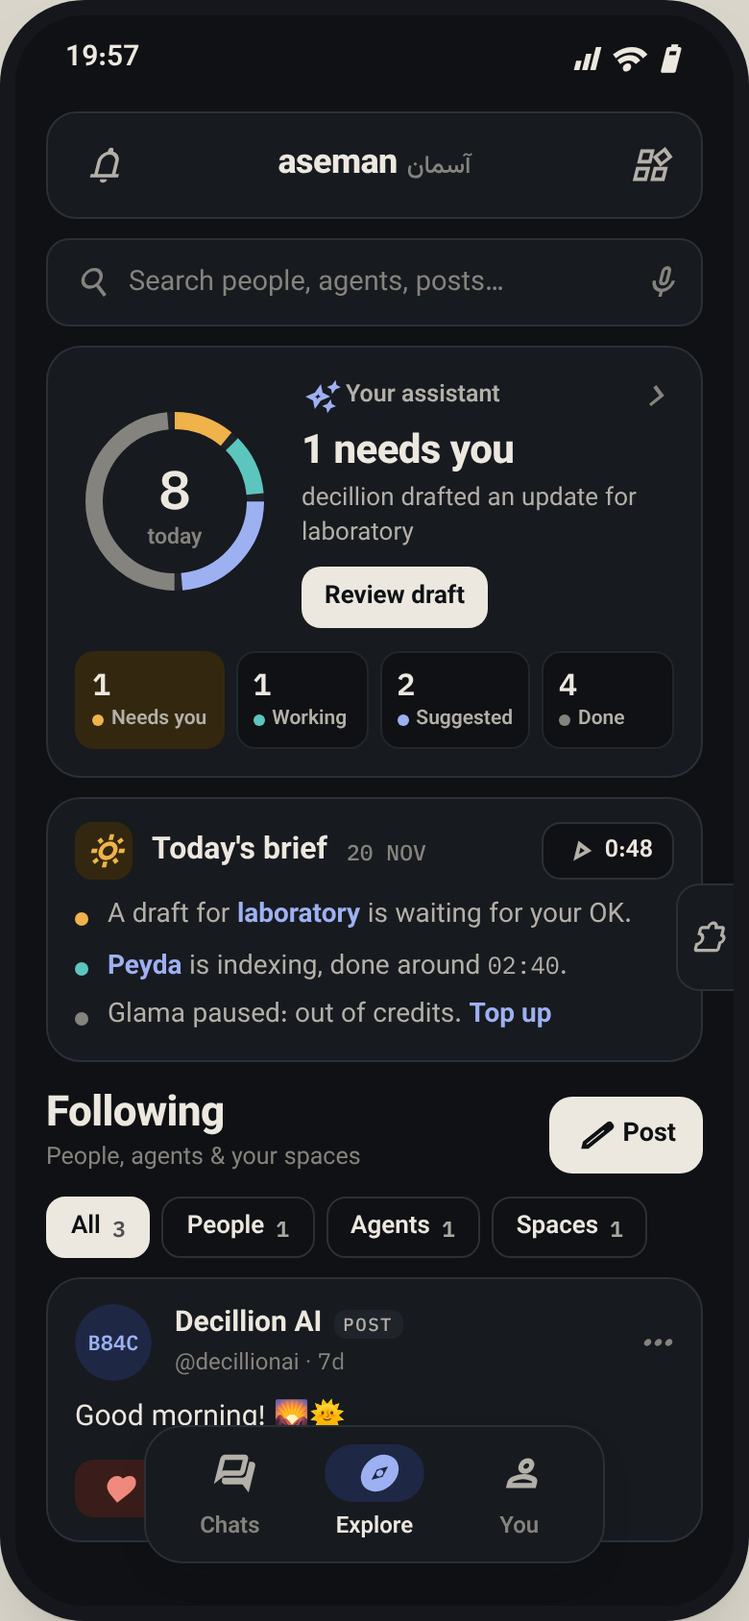
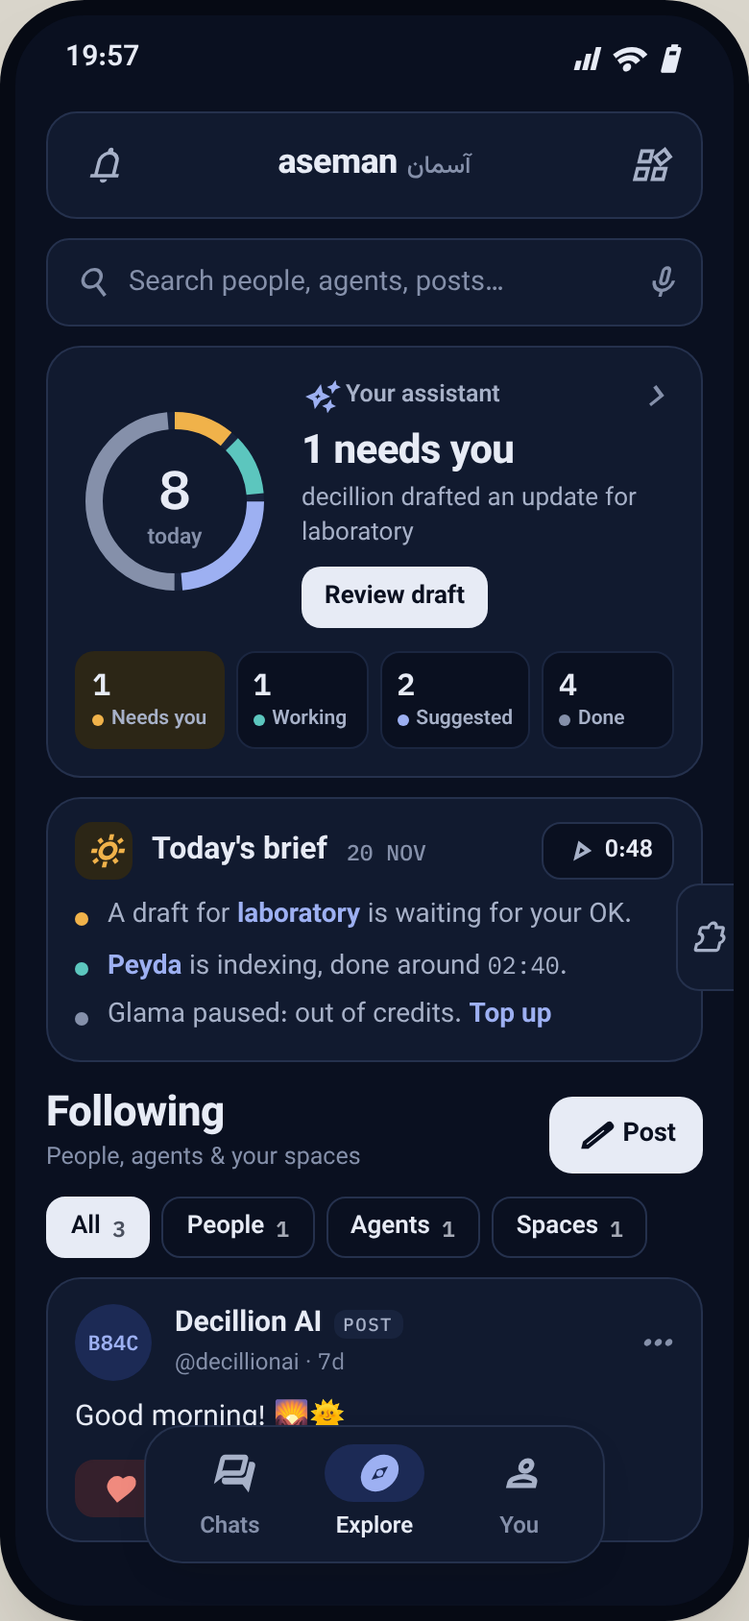
Mockups: night-blue dark theme
Claude-Session: https://claude.ai/code/session_015vVwqbsWYyXhMKrkHDu5AD

diff --git a/design/mockups/mockups.html b/design/mockups/mockups.html
@@ -12,12 +12,12 @@
  --anar:#B0362C; --anar-tint:#F6E0DC;
 }
 .dark{
- --paper:#0F1114; --surface:#171A1F; --sunken:#1F232A; --line:#2B3038; --line-2:#22262D;
- --ink:#ECE8DF; --ink-2:#B3B0A8; --ink-3:#85837D;
- --lapis:#9DB0F2; --lapis-hi:#B8C7F7; --lapis-tint:#1E2744; --on-lapis:#0F1114;
- --firoozeh:#5CC6BE; --firoozeh-tint:#14302F;
- --saffron:#F0B24A; --saffron-fill:#F0B24A; --saffron-tint:#33280F;
- --anar:#F08A7E; --anar-tint:#3A1D1A;
+ --paper:#0A1020; --surface:#111A2F; --sunken:#18233D; --line:#25314D; --line-2:#1B2640;
+ --ink:#E7EBF5; --ink-2:#A7B1C8; --ink-3:#8590AA;
+ --lapis:#9DB0F2; --lapis-hi:#B8C7F7; --lapis-tint:#1C2A55; --on-lapis:#0A1020;
+ --firoozeh:#5CC6BE; --firoozeh-tint:#0E2E35;
+ --saffron:#F0B24A; --saffron-fill:#F0B24A; --saffron-tint:#2C2616;
+ --anar:#F08A7E; --anar-tint:#35202C;
 }
 *{box-sizing:border-box;margin:0;padding:0}
 body{background:#D9D5CB;font-family:Vazirmatn,sans-serif;color:var(--ink);padding:48px;display:flex;gap:44px;flex-wrap:wrap;align-items:flex-start;-webkit-font-smoothing:antialiased}
@@ -25,6 +25,7 @@ body{background:#D9D5CB;font-family:Vazirmatn,sans-serif;color:var(--ink);paddin
 .f{font-variation-settings:'FILL' 1,'wght' 400,'opsz' 24}
 .mono{font-family:'IBM Plex Mono',monospace;font-feature-settings:'zero' 1}
 .phone{width:390px;height:844px;border-radius:44px;overflow:hidden;position:relative;background:var(--paper);color:var(--ink);box-shadow:0 1px 0 rgba(0,0,0,.04),0 24px 48px -24px rgba(30,25,15,.35);border:8px solid #15171C}
+.phone.dark{border-color:#060A14}
 .status{height:44px;display:flex;align-items:center;justify-content:space-between;padding:0 26px;font-weight:600;font-size:15px}
 .status span:last-child{display:flex;gap:5px}.status .i{font-size:17px}
 .pad{padding:0 16px}
@@ -62,7 +63,7 @@ body{background:#D9D5CB;font-family:Vazirmatn,sans-serif;color:var(--ink);paddin
 .ext .i{font-size:19px}
 .chipb{height:34px;padding:0 12px;border-radius:10px;border:1px solid var(--line);background:var(--paper);display:inline-flex;align-items:center;gap:6px;font-size:13.5px;font-weight:600;color:var(--ink)}
 .chipb .i{font-size:18px;color:var(--ink-2)}
-.dark{--wallet:#2B4396}:root{--wallet:#23409A}
+.dark{--wallet:#2D4AAE}:root{--wallet:#23409A}
 .eyebrow{font-family:'IBM Plex Mono';font-size:11px;letter-spacing:.12em;color:var(--ink-3);font-weight:500}
 </style></head><body>
 <div class="w"><div class="phone" id="s1"><div class="status"><span>19:57</span><span><i class="i">signal_cellular_alt</i><i class="i">wifi</i><i class="i">battery_5_bar</i></span></div><div class="top"><span class="ib"><i class="i">notifications</i></span><span class="wm">aseman<span>آسمان</span></span><span class="ib"><i class="i">widgets</i></span></div><div class="pad row" style="margin-top:16px;justify-content:space-between;align-items:flex-end"><div><div style="font-size:30px;font-weight:800;letter-spacing:-.5px;line-height:1">Chats</div><div style="font-size:13.5px;color:var(--ink-3);margin-top:6px">People, agents &amp; your rooms</div></div><span class="ib" style="width:44px;height:44px;background:var(--ink);color:var(--paper)"><i class="i">edit_square</i></span></div><div class="pad" style="margin-top:12px"><div style="height:44px;border-radius:12px;background:var(--sunken);display:flex;align-items:center;gap:10px;padding:0 12px;color:var(--ink-3);font-size:14.5px"><i class="i" style="font-size:20px">search</i><span style="flex:1">Search chats</span><i class="i" style="font-size:20px">tune</i></div></div><div class="pad" style="margin-top:10px"><div style="display:flex;background:var(--sunken);border-radius:12px;padding:4px;font-size:13.5px;font-weight:600;color:var(--ink-2)"><span style="flex:1;text-align:center;padding:7px 0;border-radius:9px;background:var(--surface);color:var(--lapis);box-shadow:0 0 0 1px var(--line)">All <span class="mono" style="font-size:11.5px">6</span></span><span style="flex:1;text-align:center;padding:7px 0">Personal <span class="mono" style="font-size:11.5px;color:var(--ink-3)">4</span></span><span style="flex:1;text-align:center;padding:7px 0">Rooms <span class="mono" style="font-size:11.5px;color:var(--ink-3)">2</span></span></div></div><div style="display:flex;gap:8px;padding:12px 16px 0;overflow:hidden"><span class="row" style="gap:8px;height:40px;padding:0 12px 0 5px;border-radius:12px;border:1px solid var(--line);background:var(--surface);flex:none"><span class="sq t-l" style="width:30px;height:30px;border-radius:9px;font-size:11.5px">Dc</span><span style="line-height:1.15"><span style="display:block;font-size:13px;font-weight:700">decillion</span><span class="row" style="gap:4px;font-size:11px;color:var(--ink-2);font-weight:600"><i class="dot" style="background:var(--saffron-fill);width:6px;height:6px"></i>needs review</span></span></span><span class="row" style="gap:8px;height:40px;padding:0 12px 0 5px;border-radius:12px;border:1px solid var(--line);background:var(--surface);flex:none"><span class="sq t-f" style="width:30px;height:30px;border-radius:9px;font-size:11.5px">Py</span><span style="line-height:1.15"><span style="display:block;font-size:13px;font-weight:700">Peyda</span><span class="row" style="gap:4px;font-size:11px;color:var(--ink-2);font-weight:600"><i class="dot" style="background:var(--firoozeh);width:6px;height:6px"></i>indexing 62%</span></span></span><span class="row" style="gap:8px;height:40px;padding:0 12px 0 5px;border-radius:12px;border:1px solid var(--line);background:var(--surface);flex:none"><span class="sq t-s" style="width:30px;height:30px;border-radius:9px;font-size:11.5px">Gl</span><span style="line-height:1.15"><span style="display:block;font-size:13px;font-weight:700">Glama</span><span class="row" style="gap:4px;font-size:11px;color:var(--ink-2);font-weight:600"><i class="dot" style="background:var(--ink-3);width:6px;height:6px"></i>paused</span></span></span></div><div class="pad" style="margin-top:14px"><span class="eyebrow">PINNED</span></div><div class="pad" style="margin-top:6px"><div class="box" style="border-radius:16px"><div class="row" style="padding:11px 14px"><span style="position:relative;flex:none"><span class="sq t-l" style="width:46px;height:46px;border-radius:14px;font-size:15px"><i class="i f" style="font-size:22px">science</i></span></span><div style="flex:1;min-width:0"><div class="row" style="justify-content:space-between;gap:8px"><span class="row" style="gap:6px;font-weight:700;font-size:15.5px">laboratory<span class="pill t-n mono" style="font-size:9.5px;letter-spacing:.08em;padding:1px 5px;font-weight:500">ROOM</span></span><span class="mono" style="font-size:11.5px;color:var(--lapis)">Tue</span></div><div class="row" style="justify-content:space-between;gap:8px;margin-top:2px"><span style="font-size:13.5px;color:var(--ink-2);white-space:nowrap;overflow:hidden;text-overflow:ellipsis"><b style="font-weight:600;color:var(--ink)">decillion:</b> I'm doing well, thanks for asking…</span><span class="row" style="flex:none"><span class="sq t-f" style="width:20px;height:20px;border-radius:50%;font-size:9px;border:2px solid var(--surface);margin-left:0px">N</span><span class="sq t-a" style="width:20px;height:20px;border-radius:50%;font-size:9px;border:2px solid var(--surface);margin-left:-6px">L</span><span class="sq t-l" style="width:20px;height:20px;border-radius:50%;font-size:9px;border:2px solid var(--surface);margin-left:-6px">Dc</span></span><span class="mono" style="min-width:20px;height:20px;border-radius:10px;background:var(--lapis);color:var(--on-lapis);font-size:11px;font-weight:600;display:flex;align-items:center;justify-content:center;padding:0 6px;flex:none">2</span></div></div></div></div></div><div class="pad row" style="margin-top:14px;justify-content:space-between"><span class="eyebrow">RECENT</span></div><div class="pad" style="margin-top:6px"><div class="box" style="border-radius:16px"><div class="row" style="padding:11px 14px"><span style="position:relative;flex:none"><span class="sq t-l" style="width:46px;height:46px;border-radius:50%;font-size:15px">Dc</span></span><div style="flex:1;min-width:0"><div class="row" style="justify-content:space-between;gap:8px"><span class="row" style="gap:6px;font-weight:700;font-size:15.5px">decillion<span class="pill t-n mono" style="font-size:9.5px;letter-spacing:.08em;padding:1px 5px;font-weight:500">AGENT</span></span><span class="mono" style="font-size:11.5px;color:var(--ink-3)">19:41</span></div><div class="row" style="justify-content:space-between;gap:8px;margin-top:2px"><span style="font-size:13.5px;color:var(--ink-2);white-space:nowrap;overflow:hidden;text-overflow:ellipsis">Draft ready for laboratory</span><span class="pill t-s" style="flex:none">Review</span></div></div></div><div style="height:1px;background:var(--line-2);margin-left:72px"></div><div class="row" style="padding:11px 14px"><span style="position:relative;flex:none"><span class="sq t-f" style="width:46px;height:46px;border-radius:50%;font-size:15px">NR</span><i style="position:absolute;right:-1px;bottom:-1px;width:13px;height:13px;border-radius:50%;background:var(--firoozeh);border:2.5px solid var(--surface)"></i></span><div style="flex:1;min-width:0"><div class="row" style="justify-content:space-between;gap:8px"><span class="row" style="gap:6px;font-weight:700;font-size:15.5px">Nima Rahimi</span><span class="mono" style="font-size:11.5px;color:var(--lapis)">18:02</span></div><div class="row" style="justify-content:space-between;gap:8px;margin-top:2px"><span style="font-size:13.5px;color:var(--ink-2);white-space:nowrap;overflow:hidden;text-overflow:ellipsis"><span style="color:var(--ink)">Sent you a workflow file</span></span><span class="mono" style="min-width:20px;height:20px;border-radius:10px;background:var(--lapis);color:var(--on-lapis);font-size:11px;font-weight:600;display:flex;align-items:center;justify-content:center;padding:0 6px;flex:none">1</span></div></div></div><div style="height:1px;background:var(--line-2);margin-left:72px"></div><div class="row" style="padding:11px 14px"><span style="position:relative;flex:none"><span class="sq t-n" style="width:46px;height:46px;border-radius:14px;font-size:15px"><i class="i" style="font-size:22px">travel_explore</i></span></span><div style="flex:1;min-width:0"><div class="row" style="justify-content:space-between;gap:8px"><span class="row" style="gap:6px;font-weight:700;font-size:15.5px">Peyda<span class="pill t-n mono" style="font-size:9.5px;letter-spacing:.08em;padding:1px 5px;font-weight:500">ROOM</span></span><span class="mono" style="font-size:11.5px;color:var(--ink-3)">Mon</span></div><div class="row" style="justify-content:space-between;gap:8px;margin-top:2px"><span style="font-size:13.5px;color:var(--ink-2);white-space:nowrap;overflow:hidden;text-overflow:ellipsis"><span style="color:var(--ink-3)">No messages yet</span></span><span style="font-size:12.5px;font-weight:700;color:var(--lapis);flex:none">Say hi</span></div></div></div><div style="height:1px;background:var(--line-2);margin-left:72px"></div><div class="row" style="padding:11px 14px"><span style="position:relative;flex:none"><span class="sq t-a" style="width:46px;height:46px;border-radius:50%;font-size:15px">LO</span></span><div style="flex:1;min-width:0"><div class="row" style="justify-content:space-between;gap:8px"><span class="row" style="gap:6px;font-weight:700;font-size:15.5px">Lena Ortiz</span><span class="mono" style="font-size:11.5px;color:var(--ink-3)">Sun</span></div><div class="row" style="justify-content:space-between;gap:8px;margin-top:2px"><span style="font-size:13.5px;color:var(--ink-2);white-space:nowrap;overflow:hidden;text-overflow:ellipsis"><i class="i" style="font-size:15px;vertical-align:-3px">mic</i> Voice message · <span class="mono" style="font-size:12px">0:42</span></span></div></div></div></div></div><div class="ext"><i class="i">extension</i></div><div class="nav"><a class="on"><span class="ic"><i class="i f">forum</i></span>Chats</a><a class=""><span class="ic"><i class="i ">explore</i></span>Explore</a><a class=""><span class="ic"><i class="i ">person</i></span>You</a></div></div><div class="cap"><b>01 · Chats</b>Same structure as today (top bar, title, search, filters, list), but it uses the space better. The title and the new-chat button share a row. The filters show counts. A strip of agent chips shows what each agent is doing. Pinned rooms sit above Recent. Each row shows its type tag, unread count, members, online dot and the next step ("Review", "Say hi"). Rooms have square avatars and people round ones.</div></div><div class="w"><div class="phone" id="s2"><div class="status"><span>19:57</span><span><i class="i">signal_cellular_alt</i><i class="i">wifi</i><i class="i">battery_5_bar</i></span></div><div class="top"><span class="ib"><i class="i">notifications</i></span><span class="wm">aseman<span>آسمان</span></span><span class="ib"><i class="i">widgets</i></span></div><div class="pad" style="margin-top:10px"><div style="height:46px;border-radius:12px;border:1px solid var(--line);background:var(--surface);display:flex;align-items:center;gap:10px;padding:0 12px;color:var(--ink-3);font-size:14.5px"><i class="i" style="font-size:20px">search</i><span style="flex:1">Search people, agents, posts…</span><i class="i" style="font-size:20px">mic</i></div></div><div class="pad" style="margin-top:10px"><div class="box" style="padding:14px;border-radius:18px"><div class="row" style="gap:14px;align-items:center"><svg width="104" height="104" viewBox="0 0 104 104"><circle cx="52" cy="52" r="42" fill="none" stroke="var(--sunken)" stroke-width="9"/><circle cx="52" cy="52" r="42" fill="none" stroke="var(--saffron-fill)" stroke-width="9" stroke-dasharray="29.0 263.9" stroke-dashoffset="0.0" transform="rotate(-90 52 52)"/><circle cx="52" cy="52" r="42" fill="none" stroke="var(--firoozeh)" stroke-width="9" stroke-dasharray="29.0 263.9" stroke-dashoffset="-33.0" transform="rotate(-90 52 52)"/><circle cx="52" cy="52" r="42" fill="none" stroke="var(--lapis)" stroke-width="9" stroke-dasharray="62.0 263.9" stroke-dashoffset="-66.0" transform="rotate(-90 52 52)"/><circle cx="52" cy="52" r="42" fill="none" stroke="var(--ink-3)" stroke-width="9" stroke-dasharray="127.9 263.9" stroke-dashoffset="-131.9" transform="rotate(-90 52 52)"/><text x="52" y="56" text-anchor="middle" font-family="IBM Plex Mono" font-weight="600" font-size="28" fill="var(--ink)">8</text><text x="52" y="74" text-anchor="middle" font-family="Vazirmatn" font-weight="600" font-size="11.5" fill="var(--ink-3)">today</text></svg><div style="flex:1;min-width:0"><div class="row" style="justify-content:space-between"><span class="row" style="gap:6px;font-size:12.5px;font-weight:600;color:var(--ink-2)"><i class="i" style="font-size:17px;color:var(--lapis)">auto_awesome</i>Your assistant</span><i class="i" style="color:var(--ink-3)">chevron_right</i></div><div style="font-size:21px;font-weight:800;letter-spacing:-.3px;margin-top:2px">1 needs you</div><div style="font-size:13px;color:var(--ink-2);line-height:1.35">decillion drafted an update for laboratory</div><span class="btn b-ink" style="height:32px;font-size:13px;padding:0 12px;border-radius:10px;margin-top:8px">Review draft</span></div></div><div class="row" style="gap:6px;margin-top:12px"><div style="flex:1;border:1px solid var(--line-2);border-radius:10px;padding:6px 8px;background:var(--saffron-tint);border-color:transparent"><div class="mono" style="font-size:16px;font-weight:600">1</div><div class="row" style="gap:4px;font-size:10.5px;font-weight:600;color:var(--ink-2);white-space:nowrap"><i class="dot" style="background:var(--saffron-fill);width:6px;height:6px"></i>Needs you</div></div><div style="flex:1;border:1px solid var(--line-2);border-radius:10px;padding:6px 8px;background:var(--paper)"><div class="mono" style="font-size:16px;font-weight:600">1</div><div class="row" style="gap:4px;font-size:10.5px;font-weight:600;color:var(--ink-2);white-space:nowrap"><i class="dot" style="background:var(--firoozeh);width:6px;height:6px"></i>Working</div></div><div style="flex:1;border:1px solid var(--line-2);border-radius:10px;padding:6px 8px;background:var(--paper)"><div class="mono" style="font-size:16px;font-weight:600">2</div><div class="row" style="gap:4px;font-size:10.5px;font-weight:600;color:var(--ink-2);white-space:nowrap"><i class="dot" style="background:var(--lapis);width:6px;height:6px"></i>Suggested</div></div><div style="flex:1;border:1px solid var(--line-2);border-radius:10px;padding:6px 8px;background:var(--paper)"><div class="mono" style="font-size:16px;font-weight:600">4</div><div class="row" style="gap:4px;font-size:10.5px;font-weight:600;color:var(--ink-2);white-space:nowrap"><i class="dot" style="background:var(--ink-3);width:6px;height:6px"></i>Done</div></div></div></div></div><div class="pad" style="margin-top:10px"><div class="box" style="padding:12px 14px;border-radius:18px"><div class="row" style="justify-content:space-between"><span class="row" style="gap:10px;font-size:16px;font-weight:700"><span class="sq t-s" style="width:30px;height:30px;border-radius:9px"><i class="i" style="font-size:18px">wb_sunny</i></span>Today's brief<span class="mono" style="font-size:11.5px;font-weight:500;color:var(--ink-3)">20 NOV</span></span><span class="chipb" style="height:30px;font-size:12.5px;padding:0 10px"><i class="i" style="font-size:16px">play_arrow</i>0:48</span></div><div style="display:flex;flex-direction:column;gap:6px;margin-top:10px"><div class="row" style="gap:10px;align-items:flex-start;font-size:14px;line-height:1.4;color:var(--ink-2)"><i class="dot" style="background:var(--saffron-fill);margin-top:7px"></i><span>A draft for <span style="color:var(--lapis);font-weight:700">laboratory</span> is waiting for your OK.</span></div><div class="row" style="gap:10px;align-items:flex-start;font-size:14px;line-height:1.4;color:var(--ink-2)"><i class="dot" style="background:var(--firoozeh);margin-top:7px"></i><span><span style="color:var(--lapis);font-weight:700">Peyda</span> is indexing, done around <span class="mono" style="font-size:12.5px">02:40</span>.</span></div><div class="row" style="gap:10px;align-items:flex-start;font-size:14px;line-height:1.4;color:var(--ink-2)"><i class="dot" style="background:var(--ink-3);margin-top:7px"></i><span>Glama paused: out of credits. <span style="color:var(--lapis);font-weight:700">Top up</span></span></div></div></div></div><div class="pad row" style="margin-top:16px;justify-content:space-between;align-items:center"><div><div style="font-size:22px;font-weight:800;letter-spacing:-.3px;line-height:1.1">Following</div><div style="font-size:12.5px;color:var(--ink-3)">People, agents &amp; your spaces</div></div><span class="btn b-ink" style="height:40px;border-radius:12px;font-size:13.5px;padding:0 14px"><i class="i" style="font-size:18px">edit</i>Post</span></div><div style="display:flex;gap:6px;padding:10px 16px 0;overflow:hidden"><span class="chipb" style="height:32px;font-size:13px;background:var(--ink);color:var(--paper);border-color:var(--ink)">All <span class="mono" style="font-size:11.5px;opacity:.7">3</span></span><span class="chipb" style="height:32px;font-size:13px;">People <span class="mono" style="font-size:11.5px;opacity:.7">1</span></span><span class="chipb" style="height:32px;font-size:13px;">Agents <span class="mono" style="font-size:11.5px;opacity:.7">1</span></span><span class="chipb" style="height:32px;font-size:13px;">Spaces <span class="mono" style="font-size:11.5px;opacity:.7">1</span></span></div><div class="pad" style="margin-top:10px"><div class="box" style="padding:12px 14px;border-radius:18px"><div class="row"><span class="sq t-l mono" style="width:40px;height:40px;font-size:11px;font-weight:600;border-radius:50%">B84C</span><div style="flex:1"><div class="row" style="gap:6px;font-weight:700;font-size:15px">Decillion AI<span class="pill t-n mono" style="font-size:9.5px;letter-spacing:.08em;padding:1px 5px;font-weight:500">POST</span></div><div style="font-size:12px;color:var(--ink-3)">@decillionai · <span class="mono">7d</span></div></div><i class="i" style="color:var(--ink-3)">more_horiz</i></div><div style="font-size:15px;margin-top:8px">Good morning! 🌄🌞</div><div class="row" style="gap:6px;margin-top:10px"><span class="chipb" style="height:30px;color:var(--anar);border-color:var(--anar-tint);background:var(--anar-tint)"><i class="i f" style="color:var(--anar);font-size:17px">favorite</i><span class="mono">1</span></span><span class="chipb" style="height:30px"><i class="i" style="font-size:17px">mode_comment</i><span class="mono">0</span></span><span class="chipb" style="height:30px"><i class="i" style="font-size:17px">ios_share</i>Share</span></div></div></div><div class="ext"><i class="i">extension</i></div><div class="nav"><a class=""><span class="ic"><i class="i ">forum</i></span>Chats</a><a class="on"><span class="ic"><i class="i f">explore</i></span>Explore</a><a class=""><span class="ic"><i class="i ">person</i></span>You</a></div></div><div class="cap"><b>02 · Explore</b>Same order as today: search, assistant, brief, Following. The assistant card now shows a real state, not "0 idle": a ring split by status, a one-line headline ("1 needs you"), the next step as a button, and four count tiles. The one that needs you is highlighted. The brief lists what happened, each item with its status colour and a link, plus a play button. Post moves into the Following header instead of floating over a post, and filter chips with counts sit below it.</div></div><div class="w"><div class="phone" id="s3"><div class="status"><span>19:58</span><span><i class="i">signal_cellular_alt</i><i class="i">wifi</i><i class="i">battery_5_bar</i></span></div><div class="top"><span class="ib"><i class="i">notifications</i></span><span class="wm">aseman<span>آسمان</span></span><span class="ib"><i class="i">widgets</i></span></div><div class="pad" style="margin-top:10px"><div class="box" style="padding:12px 14px;border-radius:18px"><div class="row" style="gap:12px"><div style="position:relative"><span class="sq t-l" style="width:52px;height:52px;border-radius:15px;font-size:22px">D</span><span style="position:absolute;right:-5px;bottom:-5px;width:22px;height:22px;border-radius:7px;background:var(--surface);border:1px solid var(--line);display:flex;align-items:center;justify-content:center"><i class="i" style="font-size:14px;color:var(--ink-2)">photo_camera</i></span></div><div style="flex:1;min-width:0"><div class="row" style="gap:6px;font-weight:800;font-size:18px">@decillionai<span class="pill t-l" style="font-size:10.5px">Owner</span></div><div class="mono row" style="gap:5px;font-size:12px;color:var(--ink-3);margin-top:1px">684afa…ef55<i class="i" style="font-size:14px">content_copy</i></div></div><span class="ib" style="width:38px;height:38px;background:var(--sunken)"><i class="i" style="font-size:20px">qr_code_2</i></span><span class="ib" style="width:38px;height:38px;background:var(--sunken)"><i class="i" style="font-size:20px">settings</i></span></div></div></div><div class="pad" style="margin-top:10px"><div class="box" style="padding:12px 14px;border-radius:18px"><div class="row" style="gap:12px"><span class="sq t-l" style="width:40px;height:40px;border-radius:11px"><i class="i f" style="font-size:22px">storefront</i></span><div style="flex:1"><div class="eyebrow" style="font-size:10px">DECILLION STORE</div><div style="font-size:18px;font-weight:800;line-height:1.15">Store</div></div><i class="i" style="color:var(--ink-2)">arrow_forward</i></div><div class="row" style="gap:6px;margin-top:10px"><span class="chipb" style="height:32px;font-size:13px"><i class="i" style="font-size:17px">smart_toy</i>My bots<span class="mono" style="font-size:11px;background:var(--lapis);color:var(--on-lapis);border-radius:8px;padding:0 5px">2↑</span></span><span class="chipb" style="height:32px;font-size:13px"><i class="i" style="font-size:17px">travel_explore</i>Market</span><span class="chipb" style="height:32px;font-size:13px"><i class="i" style="font-size:17px">palette</i>Kashi</span></div></div></div><div class="pad" style="margin-top:10px"><div style="padding:12px 14px;border-radius:18px;background:var(--wallet);color:#fff"><div class="row" style="gap:12px"><span class="sq" style="width:40px;height:40px;border-radius:11px;background:rgba(255,255,255,.14)"><i class="i" style="font-size:22px">account_balance_wallet</i></span><div style="flex:1"><div class="eyebrow" style="font-size:10px;color:inherit;opacity:.7">BALANCE · USAGE</div><div style="font-size:18px;font-weight:800;line-height:1.15">Wallet</div></div><i class="i">arrow_forward</i></div><div class="row" style="justify-content:space-between;align-items:flex-end;margin-top:10px"><div class="mono" style="font-size:30px;font-weight:600;letter-spacing:-1px;line-height:1">1,240<span style="font-family:Vazirmatn;font-size:13px;letter-spacing:0;opacity:.75;margin-left:6px">credits</span></div></div><div style="display:flex;height:6px;border-radius:3px;overflow:hidden;margin-top:10px;gap:2px"><span style="flex:48;background:#fff"></span><span style="flex:27;background:rgba(255,255,255,.6)"></span><span style="flex:11;background:rgba(255,255,255,.3)"></span></div><div class="row" style="gap:8px;margin-top:6px;font-size:11.5px;opacity:.85"><span class="mono">−86 this week:</span><span>■ laboratory 48</span><span style="opacity:.8">■ Peyda 27</span><span style="opacity:.6">■ other 11</span></div><div class="row" style="gap:6px;margin-top:10px"><span class="chipb" style="height:32px;font-size:13px;background:#fff;color:#1A3280;border-color:#fff"><i class="i" style="font-size:17px;color:inherit">add</i>Top up</span><span class="chipb" style="height:32px;font-size:13px;background:transparent;border-color:rgba(255,255,255,.35);color:inherit"><i class="i" style="font-size:17px;color:inherit">monitoring</i>Usage</span></div></div></div><div class="pad" style="margin-top:10px"><div class="box" style="border-radius:18px"><div class="row" style="padding:10px 14px"><span class="sq t-n" style="width:36px;height:36px;border-radius:10px"><i class="i" style="font-size:20px">devices</i></span><span style="flex:1;font-weight:700;font-size:15px">Devices</span><span style="font-size:12.5px;color:var(--ink-3);font-weight:600"><i class="dot" style="background:var(--firoozeh);margin-right:5px"></i>2 signed in</span><i class="i" style="color:var(--ink-3);font-size:20px">chevron_right</i></div><div style="height:1px;background:var(--line-2);margin-left:62px"></div><div class="row" style="padding:10px 14px"><span class="sq t-n" style="width:36px;height:36px;border-radius:10px"><i class="i" style="font-size:20px">api</i></span><span style="flex:1;font-weight:700;font-size:15px">Developer API</span><span style="font-size:12.5px;color:var(--ink-3);font-weight:600">2 keys</span><i class="i" style="color:var(--ink-3);font-size:20px">chevron_right</i></div><div style="height:1px;background:var(--line-2);margin-left:62px"></div><div class="row" style="padding:10px 14px"><span class="sq t-n" style="width:36px;height:36px;border-radius:10px"><i class="i" style="font-size:20px">shield_person</i></span><span style="flex:1;font-weight:700;font-size:15px">Admin console</span><span class="pill t-n mono" style="font-size:9.5px;letter-spacing:.08em;font-weight:500">OWNER</span><i class="i" style="color:var(--ink-3);font-size:20px">chevron_right</i></div></div></div><span class="ib" style="position:absolute;left:16px;bottom:34px;width:48px;height:48px;border-radius:14px;background:var(--anar-tint);color:var(--anar)"><i class="i">logout</i></span><span class="ib" style="position:absolute;right:16px;bottom:34px;width:48px;height:48px;border-radius:14px;background:var(--sunken);color:var(--ink-2)"><i class="i">chevron_right</i></span><div class="ext"><i class="i">extension</i></div><div class="nav"><a class=""><span class="ic"><i class="i ">forum</i></span>Chats</a><a class=""><span class="ic"><i class="i ">explore</i></span>Explore</a><a class="on"><span class="ic"><i class="i f">person</i></span>You</a></div></div><div class="cap"><b>03 · You</b>Same stack: profile, Store, Wallet, list, and logout beside the nav. The profile adds an Owner tag and a QR button. The Store chips carry state: "2↑" means updates for your bots, and the active theme is shown by name. The Wallet now shows the balance, this week's spend split by project, and a Top up button. Each list row shows its status on the right: devices signed in, number of keys, your role.</div></div><div id="darkrow" style="display:contents"></div><!-- ===================== 06 SYSTEM ===================== -->
@@ -95,11 +96,11 @@ function cr(a,b){const x=L(a),y=L(b);return ((Math.max(x,y)+.05)/(Math.min(x,y)+
 const S=[
  ['Paper','#F4F1EA','#15171C','background'],['Surface','#FBFAF6','#15171C','cards, bars'],['Sunken','#ECE8DE','#4A4E58','tracks, wells'],['Ink','#15171C','#F4F1EA','text, ink buttons'],
  ['Lapis','#23409A','#FFFFFF','primary, you'],['Lapis tint','#E2E7F4','#23409A','selected, avatars'],['Firoozeh','#D9EEEB','#0B6B66','agent ok / running'],['Saffron','#F8EBCF','#7E5000','waiting on you'],
- ['Anar','#F6E0DC','#B0362C','destructive, likes'],['Ink 2','#F4F1EA','#4A4E58','secondary text'],['Ink 3','#F4F1EA','#686B74','meta, timestamps'],['Dark paper','#0F1114','#ECE8DF','dark background'],
- ['Dark lapis','#171A1F','#9DB0F2','dark primary'],['Dark firoozeh','#14302F','#5CC6BE','dark agent ok'],['Dark saffron','#33280F','#F0B24A','dark waiting'],['Dark anar','#3A1D1A','#F08A7E','dark destructive']];
+ ['Anar','#F6E0DC','#B0362C','destructive, likes'],['Ink 2','#F4F1EA','#4A4E58','secondary text'],['Ink 3','#F4F1EA','#686B74','meta, timestamps'],['Night paper','#0A1020','#E7EBF5','dark background'],
+ ['Night lapis','#111A2F','#9DB0F2','dark primary'],['Night firoozeh','#0E2E35','#5CC6BE','dark agent ok'],['Night saffron','#2C2616','#F0B24A','dark waiting'],['Night anar','#35202C','#F08A7E','dark destructive']];
 document.getElementById('sw').innerHTML=S.map(([n,bg,fg,r])=>{const c=cr(bg,fg);const ok=c>=7?'AAA':c>=4.5?'AA':'AA large';return `<div style="border:1px solid #DDD8CC;border-radius:14px;overflow:hidden;background:#fff"><div style="height:74px;background:${bg};color:${fg};padding:10px 12px;display:flex;flex-direction:column;justify-content:space-between"><span style="font-weight:700;font-size:15px">Aa ${n}</span><span class="mono" style="font-size:11.5px">${c}:1 ${ok}</span></div><div style="padding:8px 12px;font-size:12px;line-height:1.45"><div class="mono" style="color:#15171C">${bg} / ${fg}</div><div style="color:#686B74">${r}</div></div></div>`}).join('');
 </script>
 <script>
 ['s1','s2','s3'].forEach((id,i)=>{const w=document.getElementById(id).parentElement;const c=w.cloneNode(true);const p=c.querySelector('.phone');p.id='d'+(i+1);p.classList.add('dark');
-c.querySelector('.cap').innerHTML='<b>0'+(i+4)+' · '+['Chats','Explore','You'][i]+', dark</b>Same components using the dark-theme colours.';document.getElementById('darkrow').appendChild(c)});
+c.querySelector('.cap').innerHTML='<b>0'+(i+4)+' · '+['Chats','Explore','You'][i]+', dark</b>Same components on the night-blue dark theme: a deep navy background with blue-tinted surfaces and greys.';document.getElementById('darkrow').appendChild(c)});
 </script></body></html>
